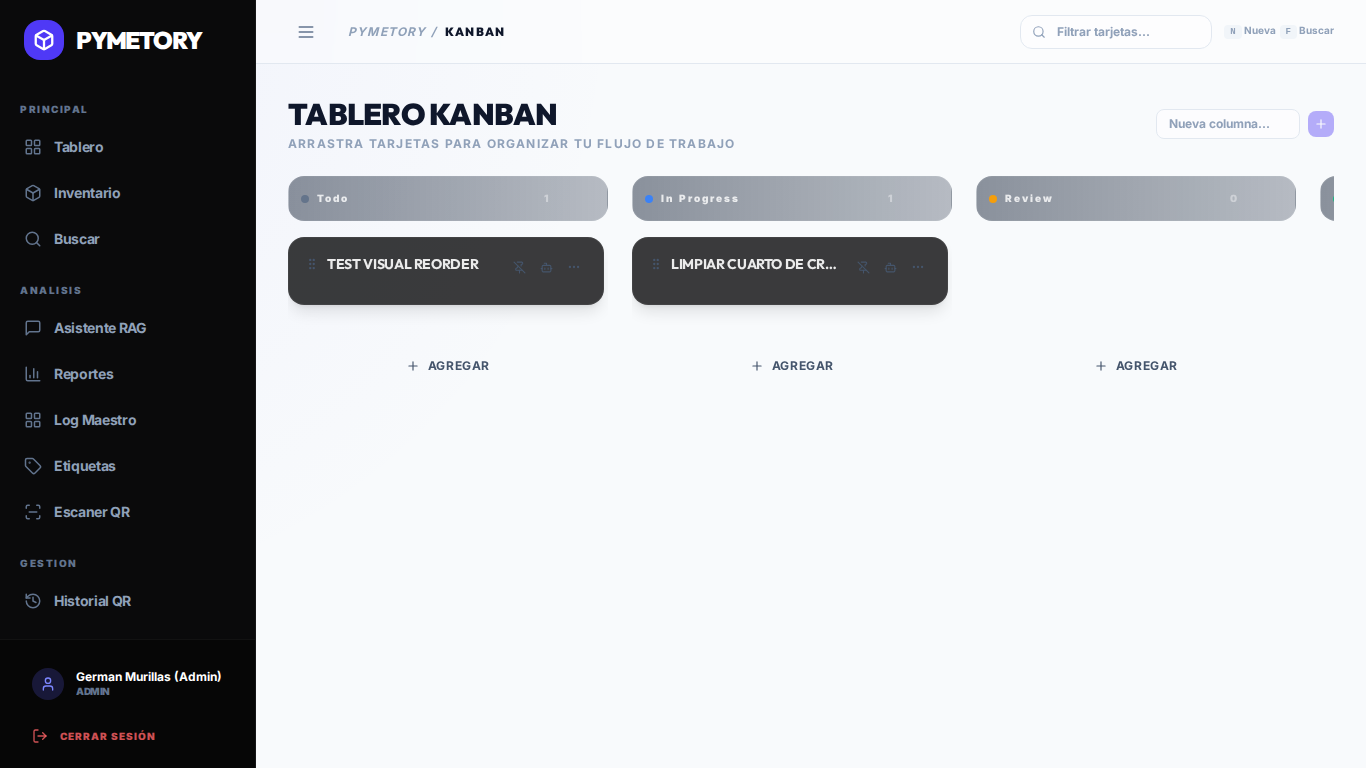
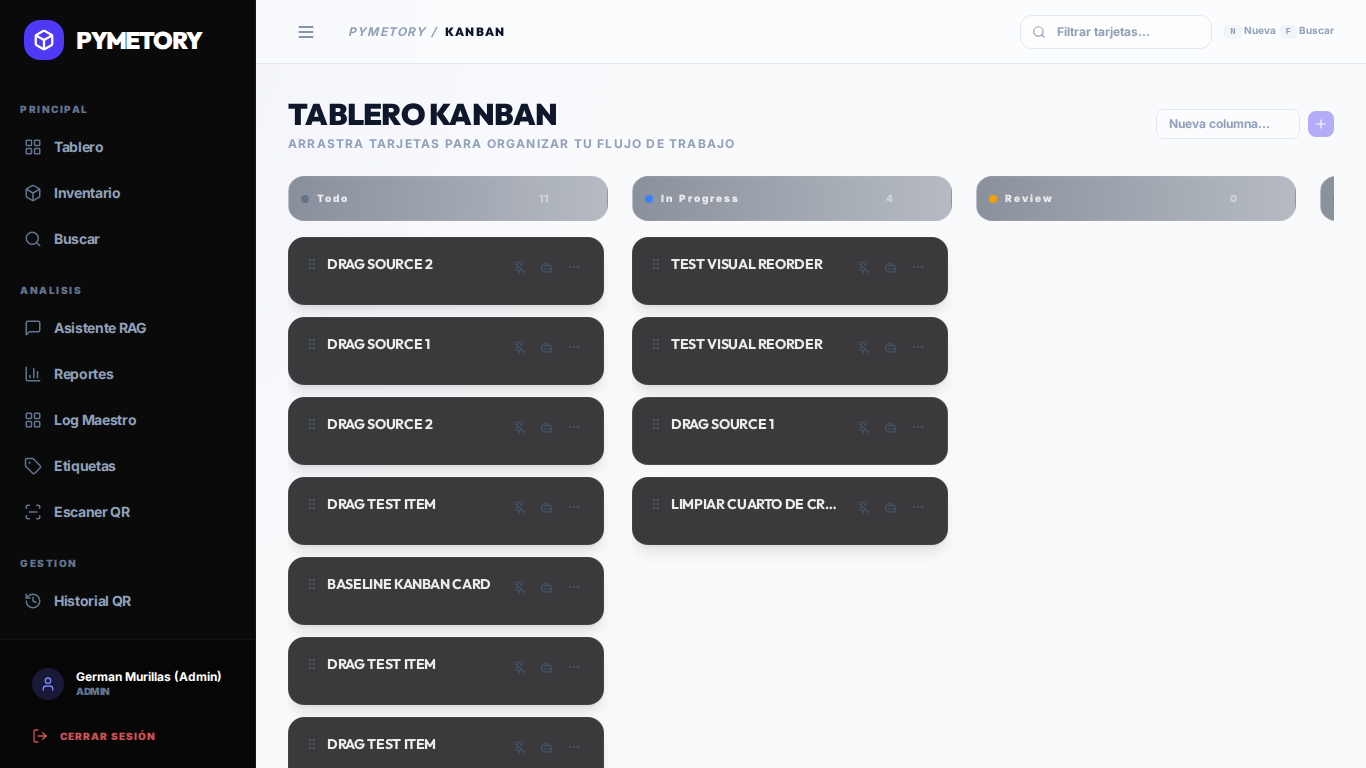
test+visual: drag real Kanban, smoke suite, P5 migrate fix + sanity, RESUMEN_COBERTURA.md
P3: ChatLLMLiveTest gated (OPENCODE_LIVE=1) + demo paso en PLAN_PRUEBAS_MANUALES
P4 visual: kanban-drag.spec con mouse drag real @dnd-kit + screenshots antes/despues
P5: fix migracion add_unit_to_materials (after('nombre') -> after('name')) + MigrationsSchemaSanityTest que valida que ninguna migracion referencia columnas inexistentes
Smoke: 5 specs @smoke ejecutan en 17s (login, dashboard, kanban, RAG, settings)
Cobertura: docs/RESUMEN_COBERTURA.md con matriz 18 modulos, comandos reproducibles, bugs encontrados

diff --git a/tests/Feature/MigrationsSchemaSanityTest.php b/tests/Feature/MigrationsSchemaSanityTest.php
@@ -1,0 +1,70 @@
+<?php
+
+namespace Tests\Feature;
+
+use Illuminate\Support\Facades\File;
+use Illuminate\Support\Facades\Schema;
+use Tests\TestCase;
+
+class MigrationsSchemaSanityTest extends TestCase
+{
+    /**
+     * P5: Sanity check de las migraciones para detectar bugs tipo
+     * ->after('columna_inexistente') que en SQLite pasan silenciosas
+     * pero rompen MySQL.
+     */
+    public function test_ninguna_migracion_referencia_columnas_inexistentes_en_after(): void
+    {
+        \Illuminate\Support\Facades\Artisan::call('migrate:fresh', ['--force' => true]);
+
+        $migrationsPath = database_path('migrations');
+        $files = File::files($migrationsPath);
+
+        $suspiciousPatterns = [];
+        $validColumnNames = [];
+
+        foreach ($files as $file) {
+            $content = File::get($file->getPathname());
+
+            preg_match_all("/->after\(['\"]([^'\"]+)['\"]\)/", $content, $afterMatches);
+            foreach ($afterMatches[1] ?? [] as $col) {
+                $suspiciousPatterns[] = ['file' => basename($file->getPathname()), 'column' => $col];
+            }
+        }
+
+        $tables = ['materials', 'lotes', 'bodegas', 'tags', 'users', 'kanban_items', 'movimientos', 'settings', 'notifications', 'api_keys', 'purchase_orders', 'purchase_order_items', 'chat_histories', 'custom_field_definitions', 'transferencias', 'vendors'];
+
+        foreach ($tables as $table) {
+            if (Schema::hasTable($table)) {
+                $validColumnNames[$table] = Schema::getColumnListing($table);
+            }
+        }
+
+        $this->assertNotEmpty($validColumnNames, 'No se encontraron tablas para validar tras migrate:fresh');
+
+        $realIssues = [];
+        foreach ($suspiciousPatterns as $sus) {
+            $found = false;
+            foreach ($validColumnNames as $table => $cols) {
+                if (in_array($sus['column'], $cols)) {
+                    $found = true;
+                    break;
+                }
+            }
+            if (!$found) {
+                $realIssues[] = $sus['file'] . ' → after("' . $sus['column'] . '")';
+            }
+        }
+
+        $this->assertEmpty($realIssues,
+            'Estas migraciones referencian columnas inexistentes (fallarán en MySQL pero SQLite las ignora): ' . implode(' | ', $realIssues));
+    }
+
+    public function test_migrate_fresh_ejecuta_sin_errores(): void
+    {
+        $exitCode = \Illuminate\Support\Facades\Artisan::call('migrate:fresh', ['--force' => true]);
+        $output = \Illuminate\Support\Facades\Artisan::output();
+
+        $this->assertEquals(0, $exitCode, 'migrate:fresh debe exit 0. Output: ' . $output);
+    }
+}

diff --git a/database/migrations/2026_04_29_225016_add_unit_to_materials_table.php b/database/migrations/2026_04_29_225016_add_unit_to_materials_table.php
@@ -10,7 +10,7 @@ return new class extends Migration
     {
         Schema::table('materials', function (Blueprint $table) {
             $table->string('unidad_medida', 20)->default('unidad')
-                  ->after('nombre')
+                  ->after('name')
                   ->comment('kg | g | l | ml | unidad | m | m2 | m3');
             $table->string('categoria', 60)->nullable()
                   ->after('unidad_medida')
